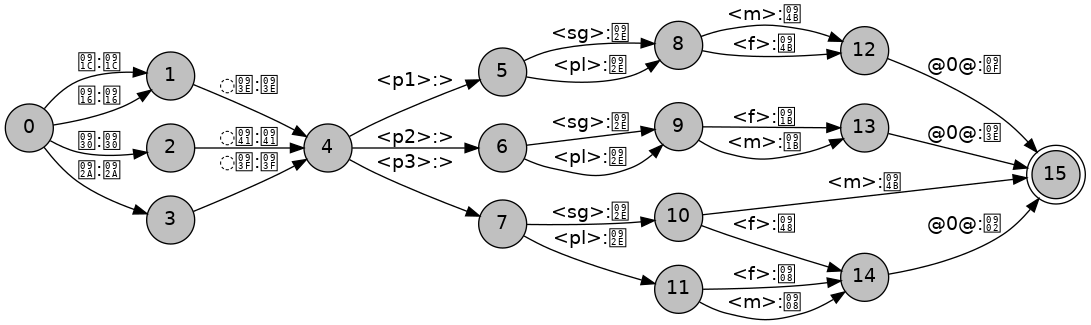
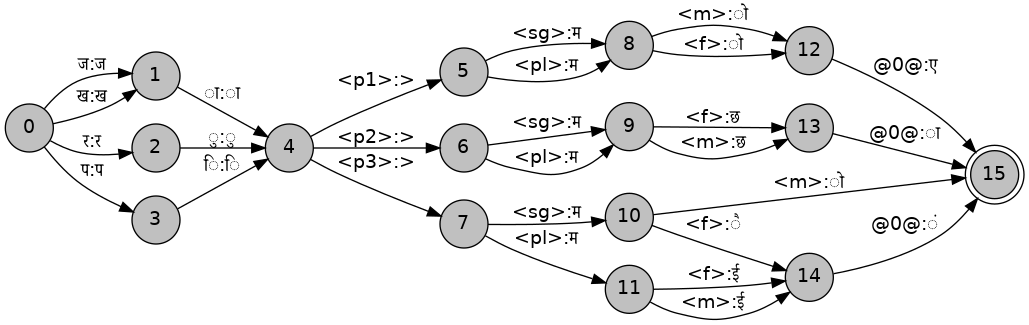
Add files via upload

diff --git a/att2dot.py b/att2dot.py
@@ -1,8 +1,8 @@
 import sys
 
 print('digraph G { rankdir="LR"')
-print('node [fontname="Lohit Devanagari",shape=circle,fontsize=14,fixedsize=true,fillcolor="grey",style=filled]')
-print('edge [fontname="Lohit Devanagari",fontsize=14]')
+print('node [fontname="Noto Serif Devanagari",shape=circle,fontsize=14,fixedsize=true,fillcolor="grey",style=filled]')
+print('edge [fontname="Noto Serif Devanagari",fontsize=14]')
 
 # Read input as bytes and decode using UTF-8 encoding
 input_bytes = sys.stdin.buffer.read()
